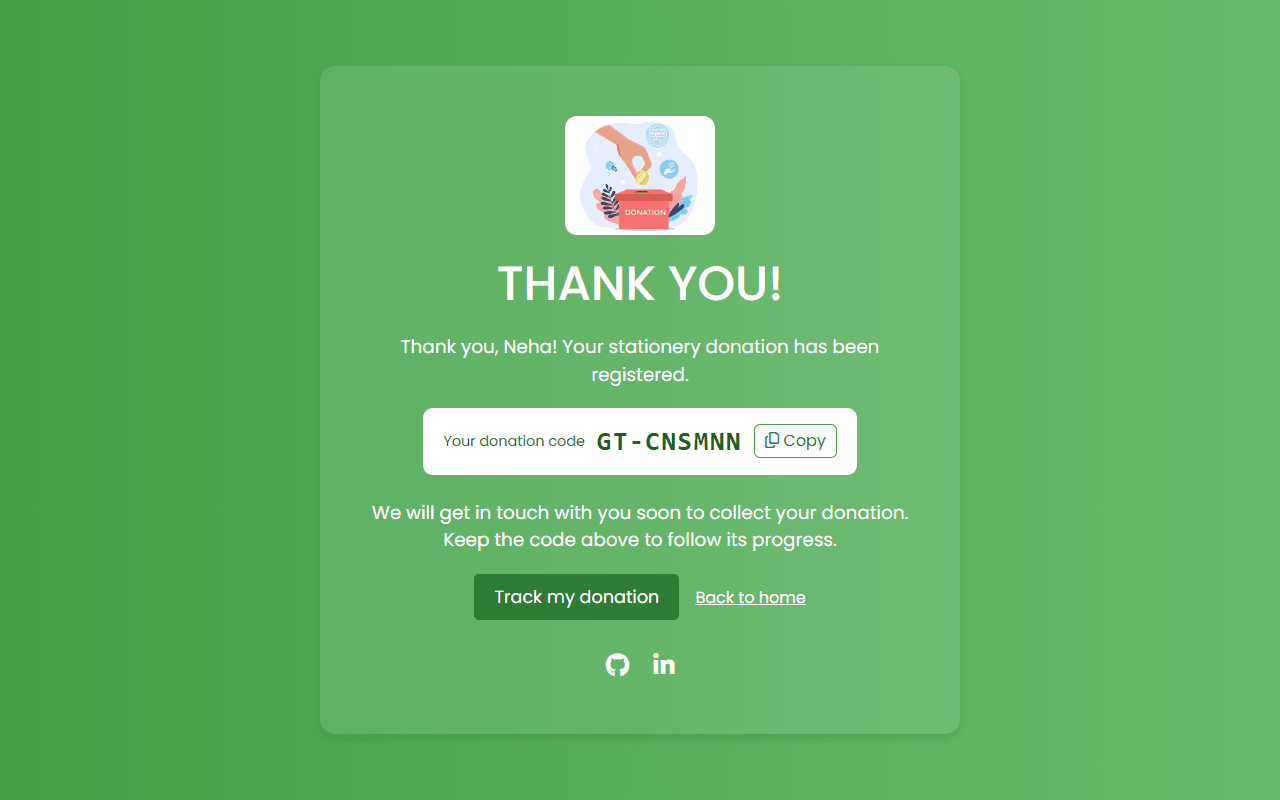
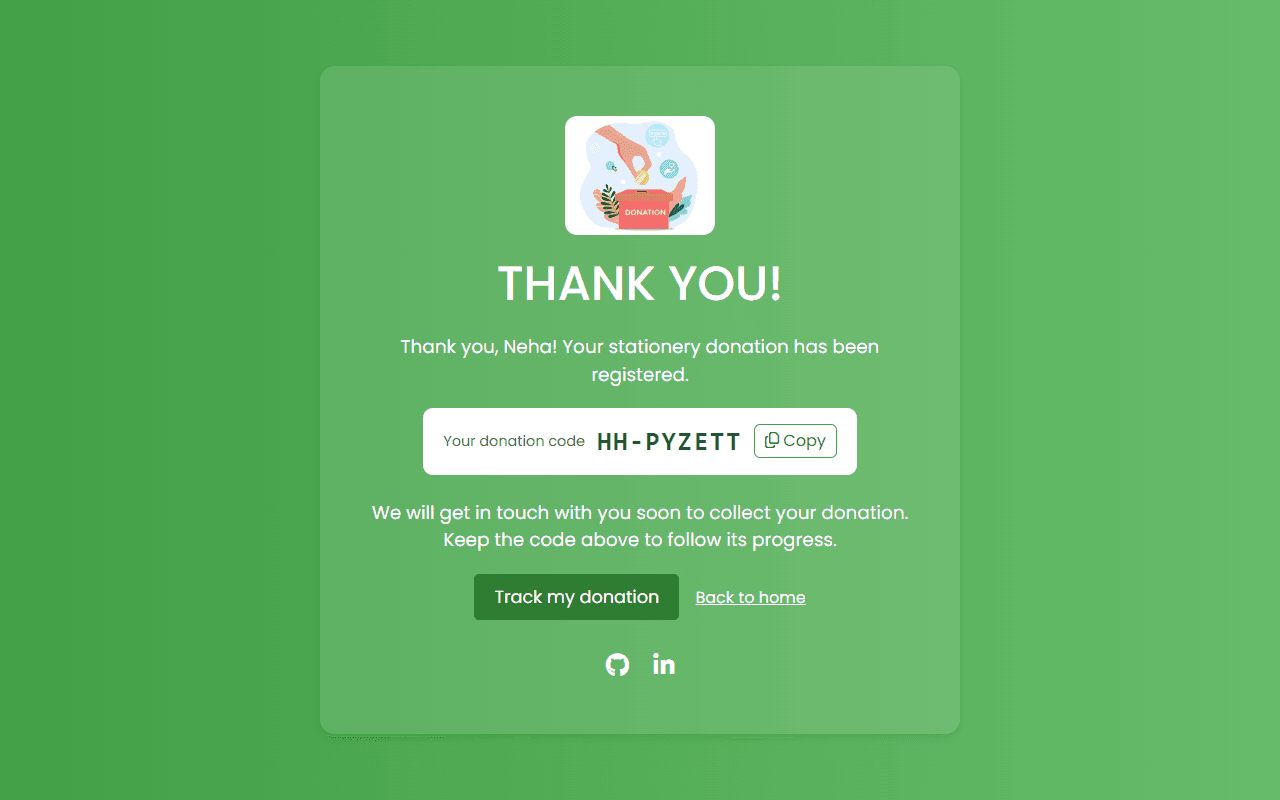
Rename project to Helping Hands

Changed region(s): [[0.4688, 0.1875, 0.5625, 0.2812], [0.375, 0.5312, 0.5938, 0.5625]]

diff --git a/scripts/demo-data.js b/scripts/demo-data.js
@@ -1,7 +1,7 @@
 import { STATUS_FLOW } from '../src/domain.js';
 import { Donation } from '../src/models/donation.js';
 
-export const DEMO_TRACKING_CODE = 'GT-7K3P9Q';
+export const DEMO_TRACKING_CODE = 'HH-7K3P9Q';
 
 const HOUR = 60 * 60 * 1000;
 // Hours between consecutive steps: received -> scheduled -> collected -> delivered.
@@ -9,18 +9,18 @@ const STEP_GAPS = [3, 22, 18];
 
 // Fictional donors with valid-looking numbers, so the dashboard has something to show.
 const DEMO_DONATIONS = [
-  ['GT-7K3P9Q', 'Priya Sharma', '+919845012345', 'clothes', '14, 2nd Cross, Indiranagar, Bengaluru 560038', 'Two bags of winter wear', 'collected', 52],
-  ['GT-4MXH2R', 'Arjun Nair', '+919880123456', 'stationery', '221, 5th Main, HSR Layout, Bengaluru 560102', 'Notebooks and geometry boxes for a school drive', 'delivered', 210],
-  ['GT-9BTE6W', 'Fatima Khan', '+917019234567', 'food', '7, Hosur Road, Koramangala, Bengaluru 560095', '20 kg rice and 5 kg dal', 'delivered', 160],
-  ['GT-Q8N3JD', 'Rahul Verma', '+918147345678', 'gadgets', '33, 1st Block, Jayanagar, Bengaluru 560011', 'Old laptop, working, with charger', 'scheduled', 20],
-  ['GT-H5ZK7C', 'Ananya Rao', '+919741456789', 'footwear', '9, 4th Cross, Malleshwaram, Bengaluru 560003', 'Six pairs of school shoes', 'received', 2],
-  ['GT-2RVM8F', 'Mohammed Irfan', '+916361567890', 'funds', '18, Frazer Town Main Road, Bengaluru 560005', 'Monthly contribution', 'collected', 75],
-  ['GT-W6PA4T', 'Sneha Reddy', '+919902678901', 'clothes', '101, Whitefield Main Road, Bengaluru 560066', 'Kids clothes, ages 4 to 8', 'scheduled', 9],
-  ['GT-K3YG9N', 'Vikram Iyer', '+918088789012', 'food', '56, BTM 2nd Stage, Bengaluru 560076', 'Packed groceries for 4 families', 'received', 5],
-  ['GT-D7SX2E', 'Meera Pillai', '+917676890123', 'stationery', '12, Basavanagudi, Bengaluru 560004', '', 'delivered', 120],
-  ['GT-M4CQ8H', 'Karthik Gowda', '+919611901234', 'gadgets', '44, Rajajinagar 3rd Block, Bengaluru 560010', 'Two Android phones', 'received', 1],
-  ['GT-T9FB3Z', 'Aisha Begum', '+918971012345', 'footwear', '3, RT Nagar Main Road, Bengaluru 560032', '', 'scheduled', 30],
-  ['GT-5NJW7K', 'Rohan Das', '+919036123456', 'clothes', '77, Electronic City Phase 1, Bengaluru 560100', 'Formal shirts and trousers', 'received', 12],
+  ['HH-7K3P9Q', 'Priya Sharma', '+919845012345', 'clothes', '14, 2nd Cross, Indiranagar, Bengaluru 560038', 'Two bags of winter wear', 'collected', 52],
+  ['HH-4MXH2R', 'Arjun Nair', '+919880123456', 'stationery', '221, 5th Main, HSR Layout, Bengaluru 560102', 'Notebooks and geometry boxes for a school drive', 'delivered', 210],
+  ['HH-9BTE6W', 'Fatima Khan', '+917019234567', 'food', '7, Hosur Road, Koramangala, Bengaluru 560095', '20 kg rice and 5 kg dal', 'delivered', 160],
+  ['HH-Q8N3JD', 'Rahul Verma', '+918147345678', 'gadgets', '33, 1st Block, Jayanagar, Bengaluru 560011', 'Old laptop, working, with charger', 'scheduled', 20],
+  ['HH-H5ZK7C', 'Ananya Rao', '+919741456789', 'footwear', '9, 4th Cross, Malleshwaram, Bengaluru 560003', 'Six pairs of school shoes', 'received', 2],
+  ['HH-2RVM8F', 'Mohammed Irfan', '+916361567890', 'funds', '18, Frazer Town Main Road, Bengaluru 560005', 'Monthly contribution', 'collected', 75],
+  ['HH-W6PA4T', 'Sneha Reddy', '+919902678901', 'clothes', '101, Whitefield Main Road, Bengaluru 560066', 'Kids clothes, ages 4 to 8', 'scheduled', 9],
+  ['HH-K3YG9N', 'Vikram Iyer', '+918088789012', 'food', '56, BTM 2nd Stage, Bengaluru 560076', 'Packed groceries for 4 families', 'received', 5],
+  ['HH-D7SX2E', 'Meera Pillai', '+917676890123', 'stationery', '12, Basavanagudi, Bengaluru 560004', '', 'delivered', 120],
+  ['HH-M4CQ8H', 'Karthik Gowda', '+919611901234', 'gadgets', '44, Rajajinagar 3rd Block, Bengaluru 560010', 'Two Android phones', 'received', 1],
+  ['HH-T9FB3Z', 'Aisha Begum', '+918971012345', 'footwear', '3, RT Nagar Main Road, Bengaluru 560032', '', 'scheduled', 30],
+  ['HH-5NJW7K', 'Rohan Das', '+919036123456', 'clothes', '77, Electronic City Phase 1, Bengaluru 560100', 'Formal shirts and trousers', 'received', 12],
 ];
 
 export async function seedDemoData(now = Date.now()) {

diff --git a/test/admin.test.js b/test/admin.test.js
@@ -9,7 +9,7 @@ const app = testApp();
 // Same format cookie-parser uses for signed cookies.
 function signedCookie(value, secret) {
   const signature = createHmac('sha256', secret).update(value).digest('base64').replace(/=+$/, '');
-  return `gt_admin=${encodeURIComponent(`s:${value}.${signature}`)}`;
+  return `hh_admin=${encodeURIComponent(`s:${value}.${signature}`)}`;
 }
 
 describe('admin authentication', () => {
@@ -21,7 +21,7 @@ describe('admin authentication', () => {
   it('sets a signed, httpOnly, same-site session cookie', async () => {
     const res = await request(app).post('/api/admin/login').send({ password: 'correct-horse-battery' }).expect(204);
     const [cookie] = res.headers['set-cookie'];
-    expect(cookie).toMatch(/^gt_admin=s%3A\d+\./);
+    expect(cookie).toMatch(/^hh_admin=s%3A\d+\./);
     expect(cookie).toContain('HttpOnly');
     expect(cookie).toContain('SameSite=Strict');
     expect(cookie).toContain('Path=/api/admin');
@@ -31,7 +31,7 @@ describe('admin authentication', () => {
     ['get', '/api/admin/donations'],
     ['get', '/api/admin/stats'],
     ['get', '/api/admin/events'],
-    ['patch', '/api/admin/donations/GT-222222/status'],
+    ['patch', '/api/admin/donations/HH-222222/status'],
   ])('protects %s %s', async (method, path) => {
     await request(app)[method](path).expect(401);
   });
@@ -43,7 +43,7 @@ describe('admin authentication', () => {
     await request(app).get('/api/admin/stats').set('Cookie', signedCookie(future, SESSION_SECRET)).expect(200);
     await request(app).get('/api/admin/stats').set('Cookie', signedCookie(future, 'x'.repeat(32))).expect(401);
     await request(app).get('/api/admin/stats').set('Cookie', signedCookie(past, SESSION_SECRET)).expect(401);
-    await request(app).get('/api/admin/stats').set('Cookie', `gt_admin=${future}`).expect(401);
+    await request(app).get('/api/admin/stats').set('Cookie', `hh_admin=${future}`).expect(401);
   });
 
   it('ends the session on logout', async () => {
@@ -130,6 +130,6 @@ describe('status updates', () => {
 
     await agent.patch(`/api/admin/donations/${code}/status`).send({ status: 'received' }).expect(400);
     await agent.patch(`/api/admin/donations/${code}/status`).send({ status: 'lost' }).expect(400);
-    await agent.patch('/api/admin/donations/GT-ZZZZZZ/status').send({ status: 'scheduled' }).expect(404);
+    await agent.patch('/api/admin/donations/HH-ZZZZZZ/status').send({ status: 'scheduled' }).expect(404);
   });
 });

diff --git a/public/index.html b/public/index.html
@@ -3,8 +3,8 @@
 <head>
   <meta charset="UTF-8">
   <meta name="viewport" content="width=device-width, initial-scale=1">
-  <meta name="description" content="GiveTrack picks up donated clothes, food, books and more from your doorstep, and lets you track every donation until it is delivered.">
-  <title>GiveTrack | Donate and track every pickup</title>
+  <meta name="description" content="Helping Hands picks up donated clothes, food, books and more from your doorstep, and lets you track every donation until it is delivered.">
+  <title>Helping Hands | Donate and track every pickup</title>
   <link rel="icon" href="img/favicon.svg" type="image/svg+xml">
   <link rel="preconnect" href="https://fonts.googleapis.com">
   <link rel="preconnect" href="https://fonts.gstatic.com" crossorigin>
@@ -21,7 +21,7 @@
     <header>
       <div class="container">
         <nav class="navbar navbar-expand-lg navbar-dark">
-          <a class="navbar-brand" href="#home">GiveTrack</a>
+          <a class="navbar-brand" href="#home">Helping Hands</a>
           <button class="navbar-toggler" type="button" aria-controls="main-nav" aria-expanded="false" aria-label="Toggle navigation">
             <span class="navbar-toggler-icon"></span>
           </button>
@@ -59,7 +59,7 @@
       <div class="container">
         <div class="home-content">
           <h1>Alone we can do little, together we can do so much</h1>
-          <h2>With <span>GiveTrack</span>, every donation reaches someone in need.</h2>
+          <h2>With <span>Helping Hands</span>, every donation reaches someone in need.</h2>
           <p>The happiest people are not those getting more, but those giving more.</p>
           <a href="#donate" class="btn1">Donate now</a>
         </div>
@@ -224,7 +224,7 @@
       <div class="row">
         <div class="col-lg-4">
           <div class="col-one">
-            <h4>GiveTrack</h4>
+            <h4>Helping Hands</h4>
             <p>Doorstep donation pickup with a tracking code for every gift.</p>
             <p>Built by Raja Mohamad.</p>
           </div>
@@ -253,6 +253,6 @@
       </div>
     </div>
   </footer>
-  <p class="cp">&copy; 2026 GiveTrack. All rights reserved.</p>
+  <p class="cp">&copy; 2026 Helping Hands. All rights reserved.</p>
 </body>
 </html>

diff --git a/test/donations.test.js b/test/donations.test.js
@@ -14,7 +14,7 @@ describe('POST /api/donations', () => {
       .send(donationInput({ name: '  Priya Sharma  ' }))
       .expect(201);
 
-    expect(res.body).toEqual({ code: expect.stringMatching(/^GT-[A-Z2-9]{6}$/), firstName: 'Priya' });
+    expect(res.body).toEqual({ code: expect.stringMatching(/^HH-[A-Z2-9]{6}$/), firstName: 'Priya' });
     expect(res.headers.location).toBe(`/api/donations/${res.body.code}`);
 
     const saved = await Donation.findOne({ code: res.body.code }).lean();
@@ -57,9 +57,9 @@ describe('POST /api/donations', () => {
   });
 
   it('ignores fields the client should not control', async () => {
-    const code = await createDonationViaApi(app, { status: 'delivered', code: 'GT-222222', timeline: [] });
+    const code = await createDonationViaApi(app, { status: 'delivered', code: 'HH-222222', timeline: [] });
     const saved = await Donation.findOne({ code }).lean();
-    expect(code).not.toBe('GT-222222');
+    expect(code).not.toBe('HH-222222');
     expect(saved.status).toBe('received');
     expect(saved.timeline).toHaveLength(1);
   });
@@ -84,11 +84,11 @@ describe('POST /api/donations', () => {
 
 describe('createDonation', () => {
   it('rolls a new code when the first one is already taken', async () => {
-    await createDonation(donationInput(), { generateCode: () => 'GT-AAAAAA' });
-    const codes = ['GT-AAAAAA', 'GT-BBBBBB'];
+    await createDonation(donationInput(), { generateCode: () => 'HH-AAAAAA' });
+    const codes = ['HH-AAAAAA', 'HH-BBBBBB'];
 
     const donation = await createDonation(donationInput(), { generateCode: () => codes.shift() });
 
-    expect(donation.code).toBe('GT-BBBBBB');
+    expect(donation.code).toBe('HH-BBBBBB');
   });
 });

diff --git a/test/donation-code.test.js b/test/donation-code.test.js
@@ -2,9 +2,9 @@ import { describe, expect, it } from 'vitest';
 import { CODE_ALPHABET, generateDonationCode, normalizeDonationCode } from '../src/lib/donation-code.js';
 
 describe('donation codes', () => {
-  it('generates GT- followed by six unambiguous characters', () => {
+  it('generates HH- followed by six unambiguous characters', () => {
     for (let i = 0; i < 500; i++) {
-      expect(generateDonationCode()).toMatch(/^GT-[2-9A-HJKMNP-TV-Z]{6}$/);
+      expect(generateDonationCode()).toMatch(/^HH-[2-9A-HJKMNP-TV-Z]{6}$/);
     }
   });
 
@@ -13,14 +13,14 @@ describe('donation codes', () => {
   });
 
   it('uses the injected random source', () => {
-    expect(generateDonationCode(() => 0)).toBe('GT-222222');
+    expect(generateDonationCode(() => 0)).toBe('HH-222222');
   });
 
-  it.each(['GT-7K3P9Q', 'gt-7k3p9q', ' GT7K3P9Q ', '7k3p9q', 'gt 7k3 p9q'])('normalizes %j', (input) => {
-    expect(normalizeDonationCode(input)).toBe('GT-7K3P9Q');
+  it.each(['HH-7K3P9Q', 'hh-7k3p9q', ' HH7K3P9Q ', '7k3p9q', 'hh 7k3 p9q'])('normalizes %j', (input) => {
+    expect(normalizeDonationCode(input)).toBe('HH-7K3P9Q');
   });
 
-  it.each(['', 'GT-7K3P9', 'GT-7K3P9QQ', 'GT-0K3P9Q', 'GT-OK3P9Q', 'XX-7K3P9Q', 42, null])('rejects %j', (input) => {
+  it.each(['', 'HH-7K3P9', 'HH-7K3P9QQ', 'HH-0K3P9Q', 'HH-OK3P9Q', 'XX-7K3P9Q', 42, null])('rejects %j', (input) => {
     expect(normalizeDonationCode(input)).toBeNull();
   });
 });

diff --git a/public/track.html b/public/track.html
@@ -3,7 +3,7 @@
 <head>
   <meta charset="UTF-8">
   <meta name="viewport" content="width=device-width, initial-scale=1">
-  <title>Track a donation | GiveTrack</title>
+  <title>Track a donation | Helping Hands</title>
   <link rel="icon" href="img/favicon.svg" type="image/svg+xml">
   <link rel="preconnect" href="https://fonts.googleapis.com">
   <link rel="preconnect" href="https://fonts.gstatic.com" crossorigin>
@@ -12,13 +12,13 @@
   <script type="module" src="js/track.js"></script>
 </head>
 <body>
-  <a href="/" class="home-link">&larr; GiveTrack</a>
+  <a href="/" class="home-link">&larr; Helping Hands</a>
   <main class="container">
     <h1>Track your donation</h1>
     <p>Enter the donation code you received after submitting the form.</p>
     <form id="track-form" autocomplete="off">
       <label class="visually-hidden" for="code">Donation code</label>
-      <input type="text" id="code" name="code" placeholder="e.g. GT-7K3P9Q" maxlength="12" spellcheck="false" required>
+      <input type="text" id="code" name="code" placeholder="e.g. HH-7K3P9Q" maxlength="12" spellcheck="false" required>
       <button type="submit">Track donation</button>
     </form>
     <section id="tracking-info" aria-live="polite" hidden></section>

diff --git a/src/lib/donation-code.js b/src/lib/donation-code.js
@@ -2,7 +2,7 @@ import { randomInt } from 'node:crypto';
 
 // Crockford-style alphabet: no 0/O, 1/I/L or U, so codes are easy to read out over the phone.
 export const CODE_ALPHABET = '23456789ABCDEFGHJKMNPQRSTVWXYZ';
-export const CODE_PREFIX = 'GT-';
+export const CODE_PREFIX = 'HH-';
 const BODY_LENGTH = 6;
 const BODY_PATTERN = new RegExp(`^[${CODE_ALPHABET}]{${BODY_LENGTH}}$`);
 
@@ -14,10 +14,10 @@ export function generateDonationCode(random = randomInt) {
   return CODE_PREFIX + body;
 }
 
-// Accepts what people actually type: "gt-7k3p9q", "GT7K3P9Q" or just "7K3P9Q".
+// Accepts what people actually type: "hh-7k3p9q", "HH7K3P9Q" or just "7K3P9Q".
 export function normalizeDonationCode(input) {
   if (typeof input !== 'string') return null;
   const compact = input.toUpperCase().replace(/[^0-9A-Z]/g, '');
-  const body = compact.length === BODY_LENGTH + 2 && compact.startsWith('GT') ? compact.slice(2) : compact;
+  const body = compact.length === BODY_LENGTH + 2 && compact.startsWith('HH') ? compact.slice(2) : compact;
   return BODY_PATTERN.test(body) ? CODE_PREFIX + body : null;
 }

diff --git a/public/admin.html b/public/admin.html
@@ -4,7 +4,7 @@
   <meta charset="UTF-8">
   <meta name="viewport" content="width=device-width, initial-scale=1">
   <meta name="robots" content="noindex">
-  <title>Admin dashboard | GiveTrack</title>
+  <title>Admin dashboard | Helping Hands</title>
   <link rel="icon" href="img/favicon.svg" type="image/svg+xml">
   <link rel="preconnect" href="https://fonts.googleapis.com">
   <link rel="preconnect" href="https://fonts.gstatic.com" crossorigin>
@@ -16,7 +16,7 @@
 <body>
   <header class="admin-header">
     <div class="container-fluid d-flex align-items-center justify-content-between">
-      <a class="brand" href="/">GiveTrack <span>admin</span></a>
+      <a class="brand" href="/">Helping Hands <span>admin</span></a>
       <div class="d-flex align-items-center">
         <span id="live-status" class="live-status" hidden>Connecting...</span>
         <button type="button" id="logout" class="btn btn-sm btn-outline-light ml-3" hidden>Log out</button>

diff --git a/scripts/dev-memory.js b/scripts/dev-memory.js
@@ -1,4 +1,4 @@
-// Runs GiveTrack against a throwaway in-memory MongoDB with demo data,
+// Runs Helping Hands against a throwaway in-memory MongoDB with demo data,
 // so the app can be tried without installing MongoDB.
 import { randomBytes } from 'node:crypto';
 import { MongoMemoryServer } from 'mongodb-memory-server';
@@ -6,14 +6,14 @@ import { loadConfig } from '../src/config.js';
 import { startServer } from '../src/server.js';
 import { DEMO_TRACKING_CODE, seedDemoData } from './demo-data.js';
 
-const DEMO_PASSWORD = 'givetrack-demo';
+const DEMO_PASSWORD = 'helpinghands-demo';
 
 const mongo = await MongoMemoryServer.create();
 
 try {
   const config = loadConfig({
     ...process.env,
-    MONGODB_URI: mongo.getUri('givetrack'),
+    MONGODB_URI: mongo.getUri('helpinghands'),
     ADMIN_PASSWORD: process.env.ADMIN_PASSWORD || DEMO_PASSWORD,
     SESSION_SECRET: process.env.SESSION_SECRET || randomBytes(32).toString('hex'),
   });

diff --git a/src/config.js b/src/config.js
@@ -3,7 +3,7 @@ import { z } from 'zod';
 const envSchema = z.object({
   NODE_ENV: z.enum(['development', 'production', 'test']).default('development'),
   PORT: z.coerce.number().int().min(0).max(65535).default(3000),
-  MONGODB_URI: z.string().trim().min(1).default('mongodb://127.0.0.1:27017/givetrack'),
+  MONGODB_URI: z.string().trim().min(1).default('mongodb://127.0.0.1:27017/helpinghands'),
   ADMIN_PASSWORD: z
     .string({ error: 'is required' })
     .min(8, 'must be at least 8 characters'),

diff --git a/src/routes/donations.js b/src/routes/donations.js
@@ -33,7 +33,7 @@ export function donationsRouter({ config, events }) {
 
   router.get('/:code', trackLimit, async (req, res) => {
     const code = normalizeDonationCode(req.params.code);
-    if (!code) throw new HttpError(400, 'Donation codes look like GT-7K3P9Q');
+    if (!code) throw new HttpError(400, 'Donation codes look like HH-7K3P9Q');
 
     const donation = await findDonationByCode(code);
     if (!donation) throw new HttpError(404, 'We could not find a donation with that code');

diff --git a/test/tracking.test.js b/test/tracking.test.js
@@ -40,8 +40,8 @@ describe('GET /api/donations/:code', () => {
   });
 
   it('returns 404 for an unknown code and 400 for a malformed one', async () => {
-    await request(app).get('/api/donations/GT-ZZZZZZ').expect(404);
+    await request(app).get('/api/donations/HH-ZZZZZZ').expect(404);
     const res = await request(app).get('/api/donations/hello').expect(400);
-    expect(res.body.error).toMatch(/GT-/);
+    expect(res.body.error).toMatch(/HH-/);
   });
 });
